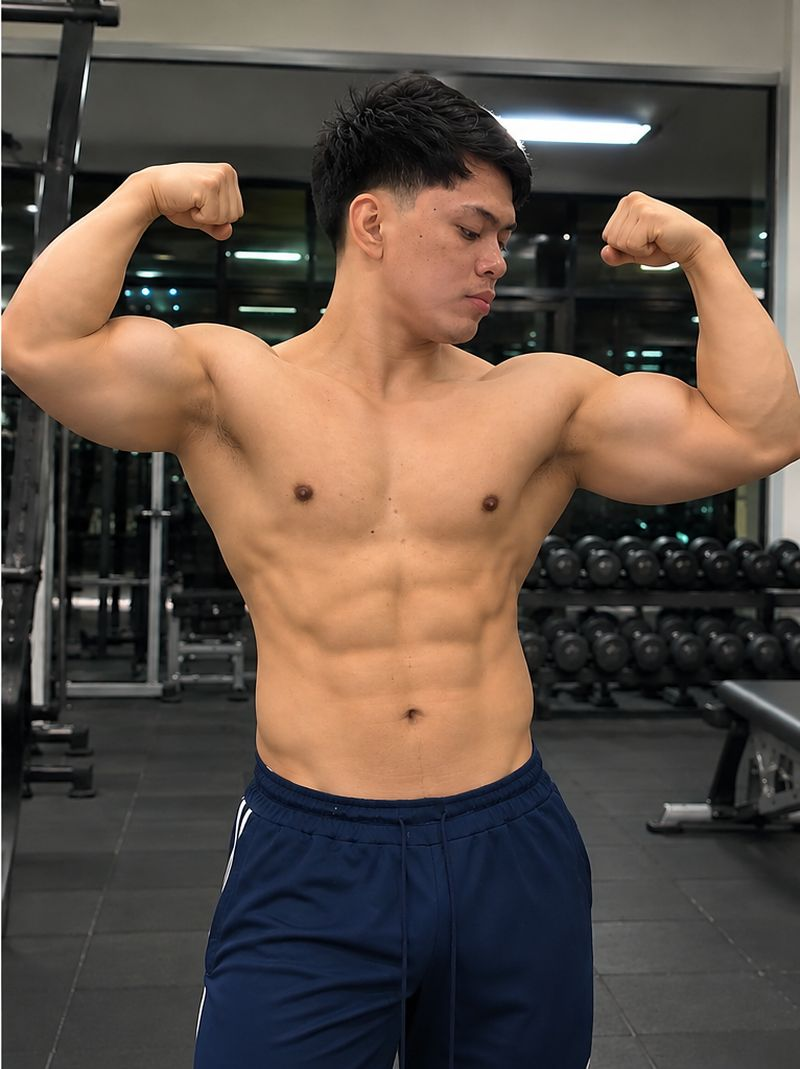
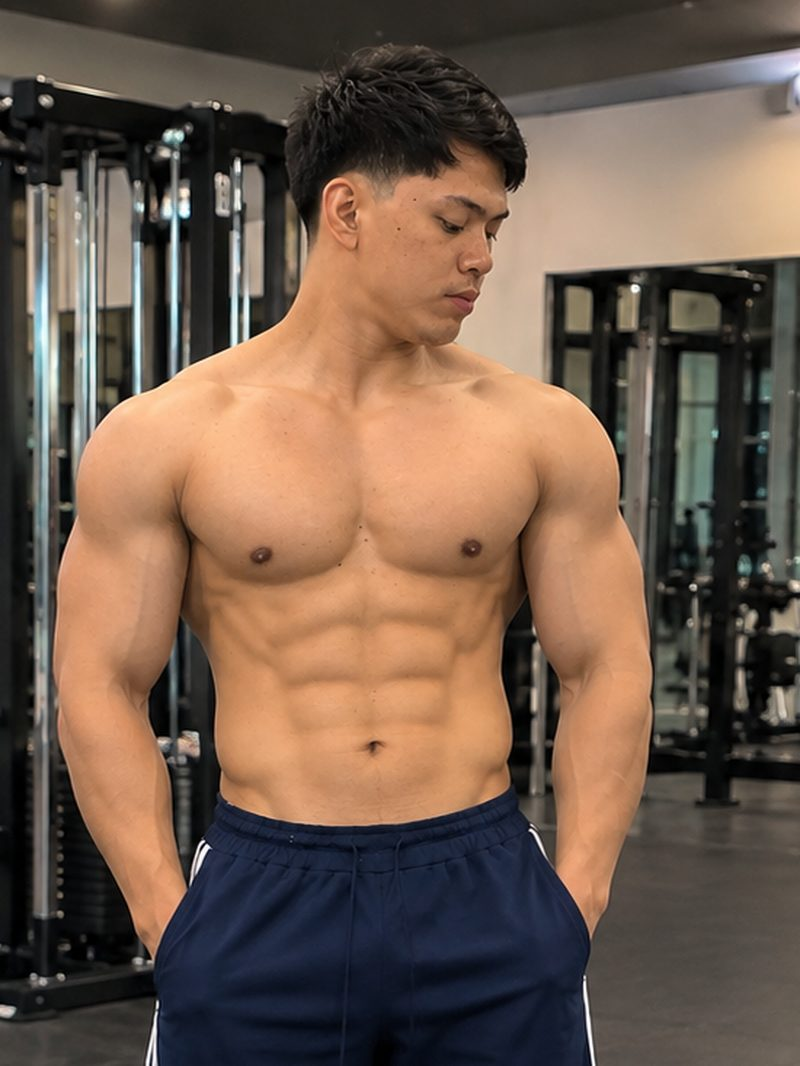
Replace flexing photo with new half-body model photo
Claude-Session: https://claude.ai/code/session_01LWtw1p9QTZwSJaApge4Uwg

diff --git a/sw.js b/sw.js
@@ -1,5 +1,5 @@
 // IRONDAY offline support
-const CACHE='ironday-v1';
+const CACHE='ironday-v2';
 const CORE=["./", "index.html", "manifest.webmanifest", "privacy.html", "icons/icon-192.png", "icons/icon-512.png", "icons/icon-180.png", "img/abs_1.jpg", "img/abs_2.jpg", "img/abs_3.jpg", "img/abs_4.jpg", "img/abs_5.jpg", "img/abs_6.jpg", "img/abs_map.jpg", "img/arms_1.jpg", "img/arms_2.jpg", "img/arms_3.jpg", "img/arms_4.jpg", "img/arms_5.jpg", "img/arms_6.jpg", "img/arms_map.jpg", "img/back_1.jpg", "img/back_2.jpg", "img/back_3.jpg", "img/back_4.jpg", "img/back_5.jpg", "img/back_6.jpg", "img/back_map.jpg", "img/calves_1.jpg", "img/calves_2.jpg", "img/calves_3.jpg", "img/calves_4.jpg", "img/calves_5.jpg", "img/calves_6.jpg", "img/calves_map.jpg", "img/chest_1.jpg", "img/chest_2.jpg", "img/chest_3.jpg", "img/chest_4.jpg", "img/chest_5.jpg", "img/chest_6.jpg", "img/chest_map.jpg", "img/cover.jpg", "img/curl2.jpg", "img/flex.jpg", "img/legs_1.jpg", "img/legs_2.jpg", "img/legs_3.jpg", "img/legs_4.jpg", "img/legs_5.jpg", "img/legs_6.jpg", "img/mirror.jpg", "img/shoulders_1.jpg", "img/shoulders_2.jpg", "img/shoulders_3.jpg", "img/shoulders_4.jpg", "img/shoulders_5.jpg", "img/shoulders_6.jpg", "img/shoulders_map.jpg"];
 self.addEventListener('install',e=>{e.waitUntil(caches.open(CACHE).then(c=>c.addAll(CORE)).then(()=>self.skipWaiting()));});
 self.addEventListener('activate',e=>{e.waitUntil(caches.keys().then(ks=>Promise.all(ks.filter(k=>k!==CACHE).map(k=>caches.delete(k)))).then(()=>self.clients.claim()));});
